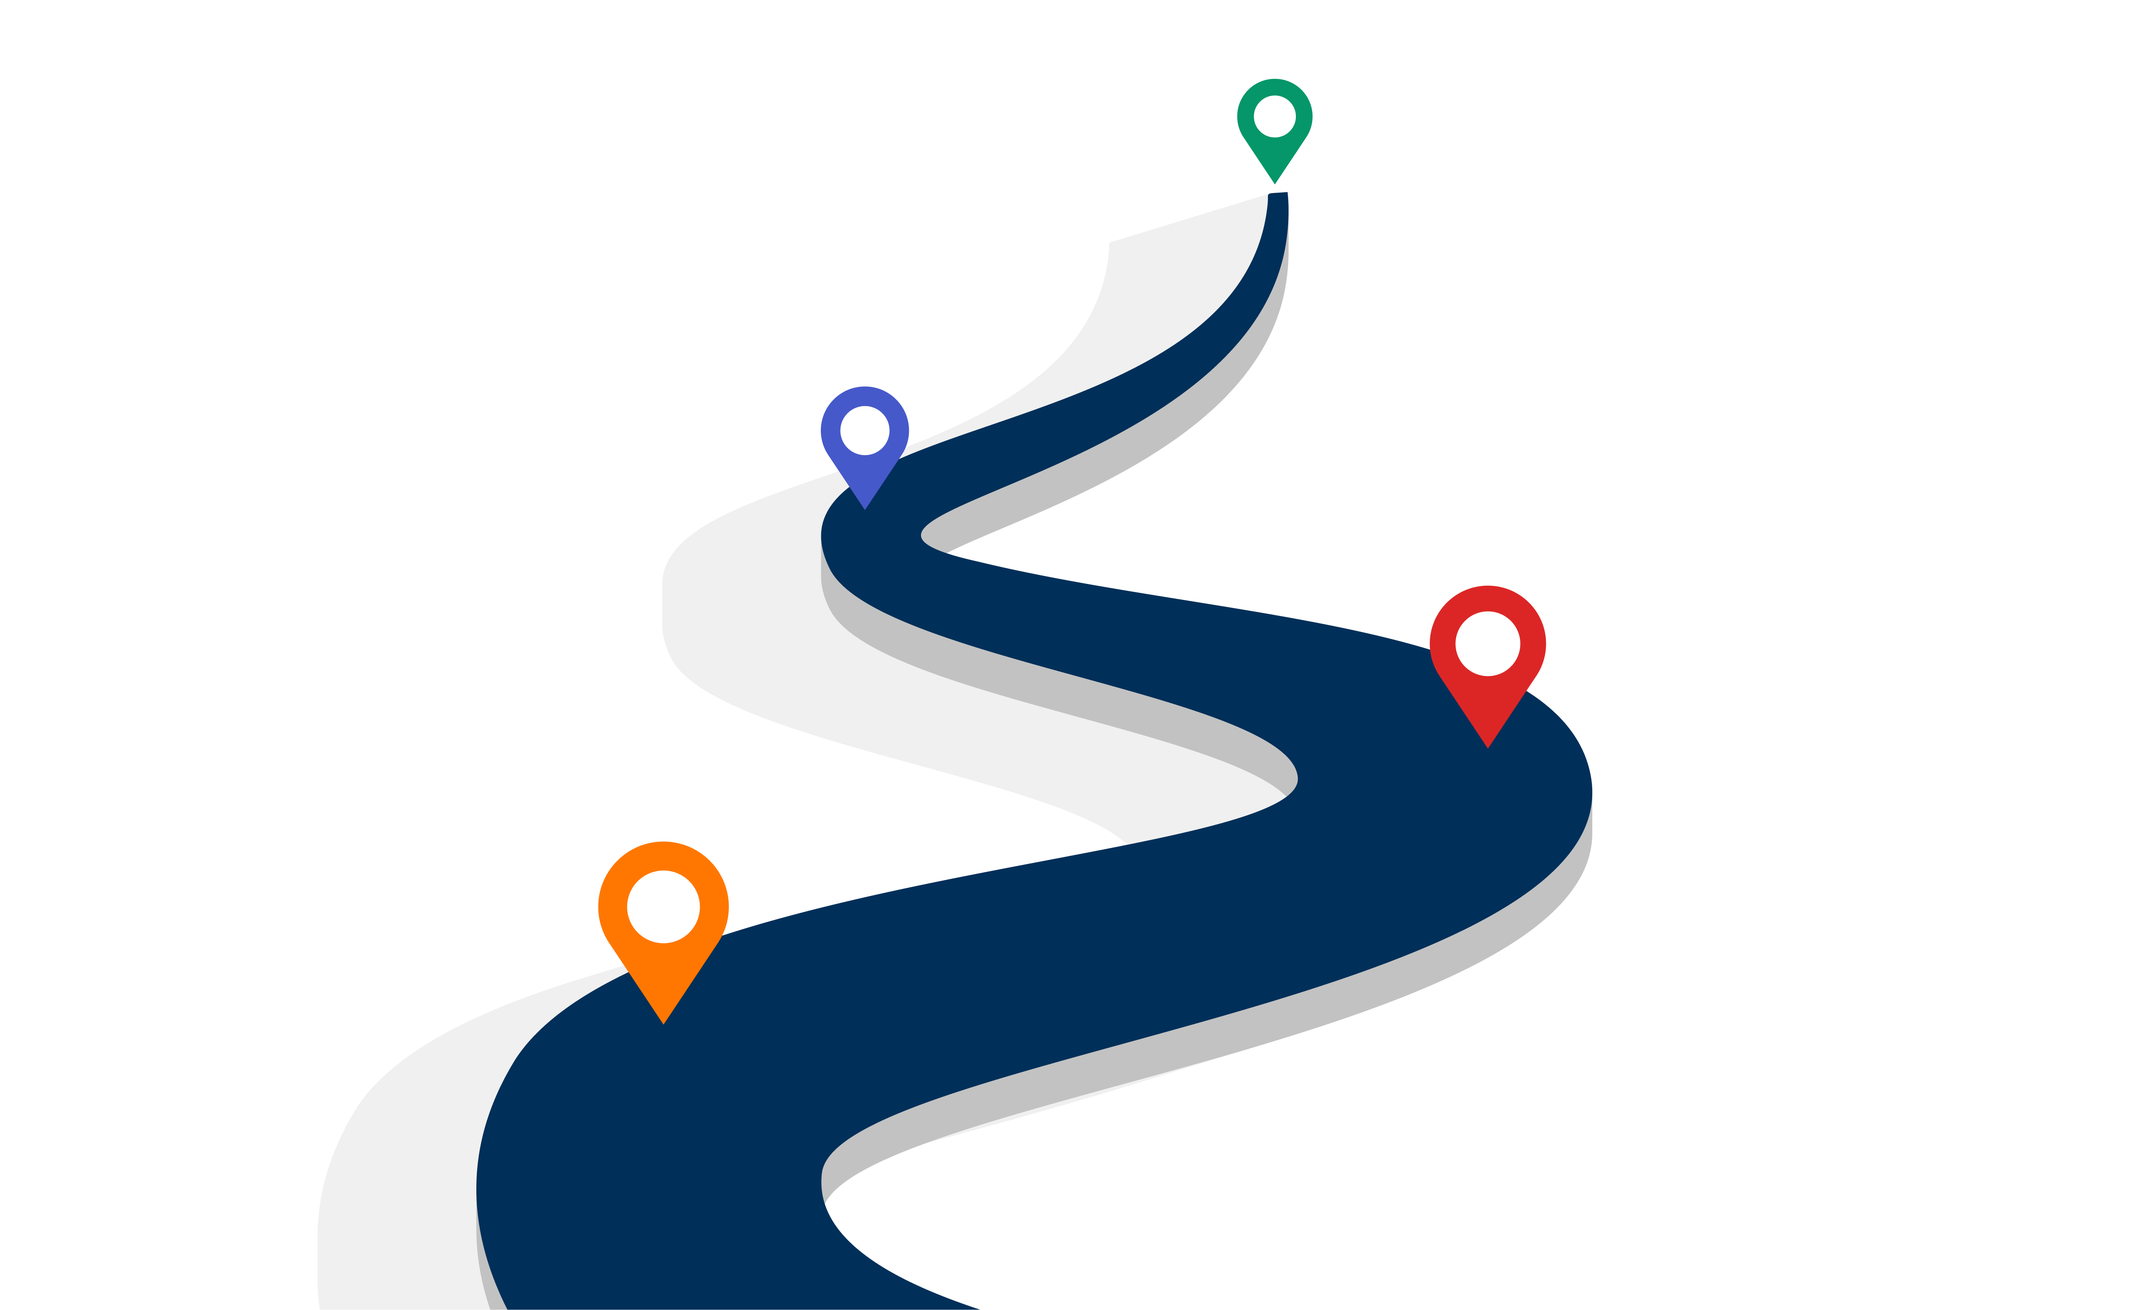
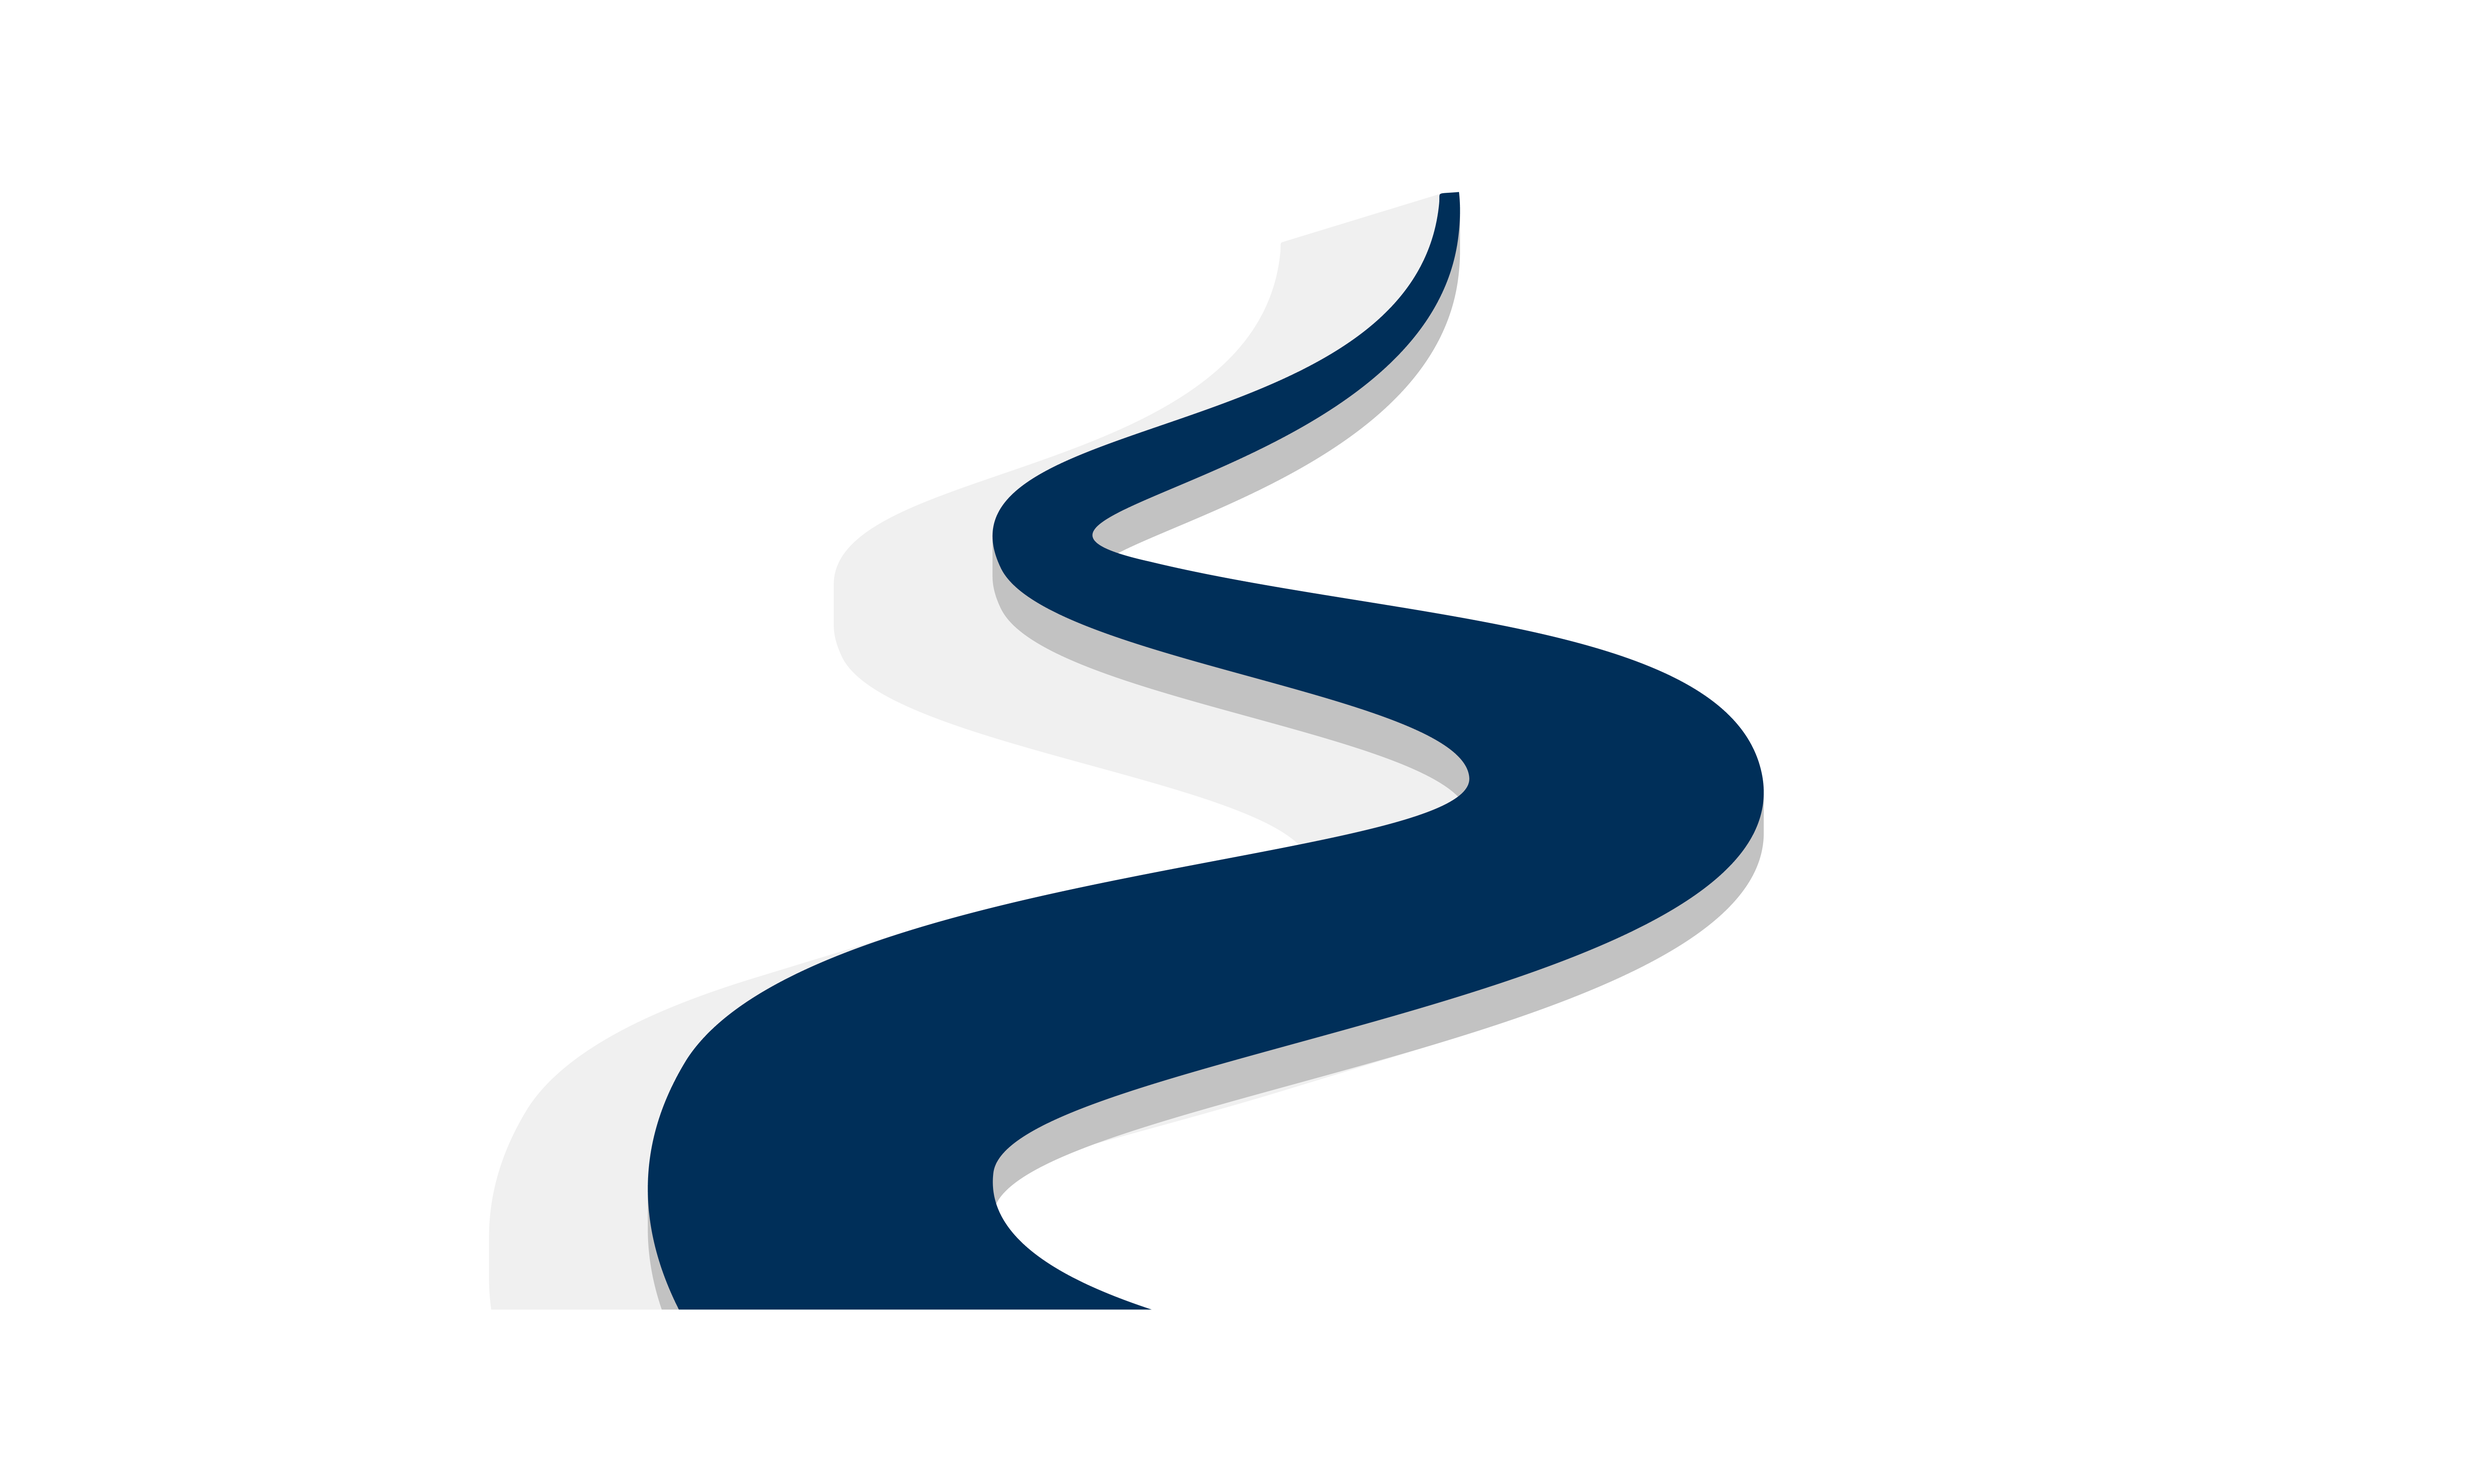
learning plan section desktop done

Changed region(s): [[0.2174, 0.0623, 0.7453, 1.0]]

diff --git a/components/StepCard/StepCard.js b/components/StepCard/StepCard.js
@@ -1,16 +1,80 @@
-import React from 'react'
+'use client'
+import React, { useEffect } from 'react'
+import Image from 'next/image'
+import styles from './StepCard.module.css'
 
-function StepCard({id,stepNo,stepClass,stepDesc}) {
+function StepCard({ id, stepWidth, stepNo, stepClass, stepDesc, stepMap, stepStudent, stepDescImg }) {
+
+  useEffect(() => {
+    let observer = new IntersectionObserver((entries) => {
+      entries.forEach((entry) => {
+        if (entry.isIntersecting) {
+          console.log(entry.target)
+          if (entry.target.classList.contains('step-card-1')) {
+            setTimeout(() => {
+              entry.target.classList.add(styles['show-blue-card']);
+            }, 3000);
+          }
+          if (entry.target.classList.contains('step-card-2')) {
+            setTimeout(() => {
+              entry.target.classList.add(styles['show-green-card']);
+            }, 4000);
+          }
+          if (entry.target.classList.contains('step-card-3')) {
+            setTimeout(() => {
+              entry.target.classList.add(styles['show-orange-card']);
+            }, 1000);
+          }
+          if (entry.target.classList.contains('step-card-4')) {
+            setTimeout(() => {
+              entry.target.classList.add(styles['show-red-card']);
+            }, 2000);
+          }
+          if (entry.target.classList.contains('step-card-5')) {
+            const targetChild = entry.target.querySelector('.step-last-card');
+            setTimeout(() => {
+              targetChild.classList.add(styles['show-last-card']);
+            }, 500);
+          }
+        }
+      })
+    })
+
+    const stepElements = document.querySelectorAll('.step-card');
+    stepElements.forEach((el) => observer.observe(el));
+
+    return () => observer.disconnect();
+
+  }, []);
+
   return (
-    <div key={id} className={`${stepClass} w-[313px]`}>
-        <h3 className='py-[8px] pl-[20px]'>{stepNo}</h3>
+    <div className={`step-card step-card-${id} ${styles[stepWidth]} relative`} key={id}>
+      <div className={`${styles[stepClass]} w-[313px] flex flex-col gap-[8px]`}>
+        <h3 className='py-[8px] pl-[20px] text-[#ffffff] text-[20px] leading-[28px] tracking-wide'>{stepNo}</h3>
         <ul>
-            {
-                stepDesc.map((desc)=>(
-                    <li>{desc}</li>
-                ))
-            }
+          {
+            stepDesc?.map((desc, index) => (
+              <li className='text-[16px] leading-[24px] tracking-wide text-[#191d23]' key={index}>{desc}</li>
+            ))
+          }
         </ul>
+      </div>
+      <div className={`${styles[stepMap[1]]} absolute right-0 bottom-0`}>
+        {
+          (stepMap.length>0)&&<Image src={stepMap[0]} alt='step-map' />
+        }
+      </div>
+      {
+        (id===5) &&
+        <div className={`flex relative top-[5%] left-[100%] step-last-card ${styles['last-card']}`}>
+          <div className='w-[252px]'>
+            <Image src={stepStudent} alt='step-stundet'/>
+          </div>
+          <div className='w-[276px] relative right-[-23%] top-[50px]'>
+            <Image src={stepDescImg} alt='step-desc-img'/>
+          </div>
+        </div>
+      }
     </div>
   )
 }

diff --git a/components/StepCard/StepCard.module.css b/components/StepCard/StepCard.module.css
@@ -1,0 +1,147 @@
+.step-three h3{
+    background-color: #4659CA;
+}
+
+.step-four h3{
+    background: #059669;
+}
+
+.step-one h3{
+    background: #D97706;
+}
+
+.step-two h3{
+    background: #DC2626;
+}
+
+.step-three ul,.step-one ul,.step-two ul,.step-four ul{
+    padding: 12px 12px 12px 36px;
+    list-style-type: disc;
+}
+
+.step-three ul{
+    background: #F2F4FC;
+}
+
+.step-four ul{
+    background: #D1FAE5;
+}
+
+.step-one ul{
+    background: #FEF3C7;
+}
+
+.step-two ul{
+    background: #FEE2E2;
+}
+
+.step-width-blue{
+    width: 372px;
+    height: 218px;
+    display: flex;
+    gap: 8px;
+    top: 25%;
+    left: 10%;
+    transform: translateX(-100%);
+    filter: blur(3px);
+    opacity: 0;
+    transition: all 1s ease;
+}
+
+.show-blue-card{
+    opacity: 1;
+    filter: blur(0);
+    transform: translateX(0);
+}
+
+.blue-map{
+    width: 51px;
+}
+
+.step-width-green{
+    width: 391px;
+    height: 133px;
+    display: flex;
+    flex-direction: row-reverse;
+    gap: 34px;
+    top: 20%;
+    left: -6.5%;
+    filter: blur(3px);
+    opacity: 0;
+    transform: translateX(100%);
+    transition: all 1s ease;
+}
+
+.show-green-card{
+    opacity: 1;
+    filter: blur(0);
+    transform: translateX(0);
+}
+
+.green-map{
+    width: 43px;
+    top: -9px;
+    left: 0;
+}
+
+.step-width-orange{
+    width: 424px;
+    height: 248px;
+    display: flex;
+    gap: 35px;
+    top: 35%;
+    left: 0;
+    opacity: 0;
+    filter: blur(3px);
+    transform: translateX(-100%);
+    transition: all 1s ease;
+}
+
+.show-orange-card{
+    opacity: 1;
+    filter: blur(0);
+    transform: translateX(0);
+}
+
+.orange-map{
+    width: 76px;
+}
+
+.step-width-red{
+    width: 414px;
+    height: 191px;
+    display: flex;
+    flex-direction: row-reverse;
+    gap: 34px;
+    top: 50%;
+    left: 13%;
+    opacity: 0;
+    filter: blur(3px);
+    transform: translateX(100%);
+    transition: all 1s ease;
+}
+
+.show-red-card{
+    opacity: 1;
+    filter: blur(0);
+    transform: translateX(0);
+}
+
+.red-map{
+    width: 67px;
+    left: 0;
+    top: -19px;
+}
+
+.last-card{
+    transform: translateX(10%);
+    opacity: 0;
+    filter: blur(3px);
+    transition: all 1s ease;
+}
+
+.show-last-card{
+    opacity: 1;
+    filter: blur(0);
+    transform: translateX(0);
+}

diff --git a/Constants/MainPageConstants/LearningPlansConstants.js b/Constants/MainPageConstants/LearningPlansConstants.js
@@ -1,27 +1,52 @@
+import StepMap3 from '../../resources/images/step-3-map.png'
+import StepMap4 from '../../resources/images/step-4-map.png'
+import StepMap1 from '../../resources/images/step-1-map.png'
+import StepMap2 from '../../resources/images/step-2-map.png'
+import StudentImg from '../../resources/images/learning-plan-student.png'
+import StudentDescImg from '../../resources/images/student-desc-img.png'
+
 const StepsData=[
     {
         id:1,
+        stepWidth:"step-width-blue",
         stepNo:"STEP 3",
         stepClass:"step-three",
-        stepDesc:["Hands-on projects","Real-world practice","Build practical skills"]
+        stepDesc:["Hands-on projects","Real-world practice","Build practical skills"],
+        stepMap:[StepMap3,"blue-map"]
     },
     {
         id:2,
+        stepWidth:"step-width-green",
         stepNo:"STEP 4",
         stepClass:"step-four",
-        stepDesc:["Hands-on projects","Real-world practice","Build practical skills"]
+        stepDesc:["Ongoing guidance","Mock interviews & doubts cleared"],
+        stepMap:[StepMap4,"green-map"]
     },
     {
-        id:1,
+        id:3,
+        stepWidth:"step-width-orange",
         stepNo:"STEP 1",
         stepClass:"step-one",
-        stepDesc:["Hands-on projects","Real-world practice","Build practical skills"]
+        stepDesc:["Personalized learning for your career goals","Prepares you for interviews and skills","From basics to mastery"],
+        stepMap:[StepMap1,"orange-map"]
     },
     {
-        id:1,
+        id:4,
+        stepWidth:"step-width-red",
         stepNo:"STEP 2",
         stepClass:"step-two",
-        stepDesc:["Hands-on projects","Real-world practice","Build practical skills"]
+        stepDesc:["Learn at your own pace","Custom milestones to fit your schedule","Tailored learning style"],
+        stepMap:[StepMap2,"red-map"]
+    },
+    {
+        id:5,
+        stepWidth:"",
+        stepNo:"",
+        stepClass:"",
+        stepDesc:null,
+        stepMap:[],
+        stepStudent:StudentImg,
+        stepDescImg:StudentDescImg
     },
 ]
 

diff --git a/components/LearningPlans/LearningPlans.js b/components/LearningPlans/LearningPlans.js
@@ -8,12 +8,12 @@ function LearningPlans() {
     <div className='p-[100px]'>
         <h1 className='text-[48px] leading-[64px] tracking-wide text-center'>Personalized Learning Plans</h1>
         <div
-        className="mt-[40px] bg-cover bg-center"
-        style={{ backgroundImage: `url(${PersonalisedBg.src})` }}
+        className="mt-[40px] p-[0] bg-cover grid grid-rows-2 grid-cols-2 justify-items-center"
+        style={{ backgroundImage: `url(${PersonalisedBg.src})`,backgroundSize: 'cover',height: '652px'}}
         >
             {
                 StepsData.map((stepdata)=>(
-                    <StepCard {...stepdata}/>
+                    <StepCard key={stepdata.id} {...stepdata}/>
                 ))
             }
         </div>

diff --git a/components/ProgramCard/ProgramCard.js b/components/ProgramCard/ProgramCard.js
@@ -3,7 +3,7 @@ import Image from 'next/image'
 
 function ProgramCard({id,programMode,programImg,programAlt,programLocation,programHead,programFeatures,programBtn}) {
   return (
-    <div key={id}>
+    <div>
         <div>
             <h3 className='text-[#020617] text-[32px] leading-[40px] tracking-wide'>{programMode}</h3>
             <div className='mt-[24px] w-[646px] bg-[#FFFFFF] p-[20px] rounded-[20px]'>

diff --git a/components/ProgramSection/ProgramSection.js b/components/ProgramSection/ProgramSection.js
@@ -10,7 +10,7 @@ function ProgramSection() {
       <div className='flex justify-center gap-[24px] mt-[40px]'>
         {
             Programs.map((program)=>(
-                <ProgramCard {...program}/>
+                <ProgramCard key={program.id} {...program}/>
             ))
         }
       </div>

diff --git a/app/page.js b/app/page.js
@@ -25,7 +25,7 @@ export default function Home() {
       <FeatureSection/>
       <YoutubeVsPpa/>
       <TransistionSection/>
-      {/* <LearningPlans/> */}
+      <LearningPlans/>
       <StoriesSection/>
       <Instructor/>
       <CommunityBanner/>
